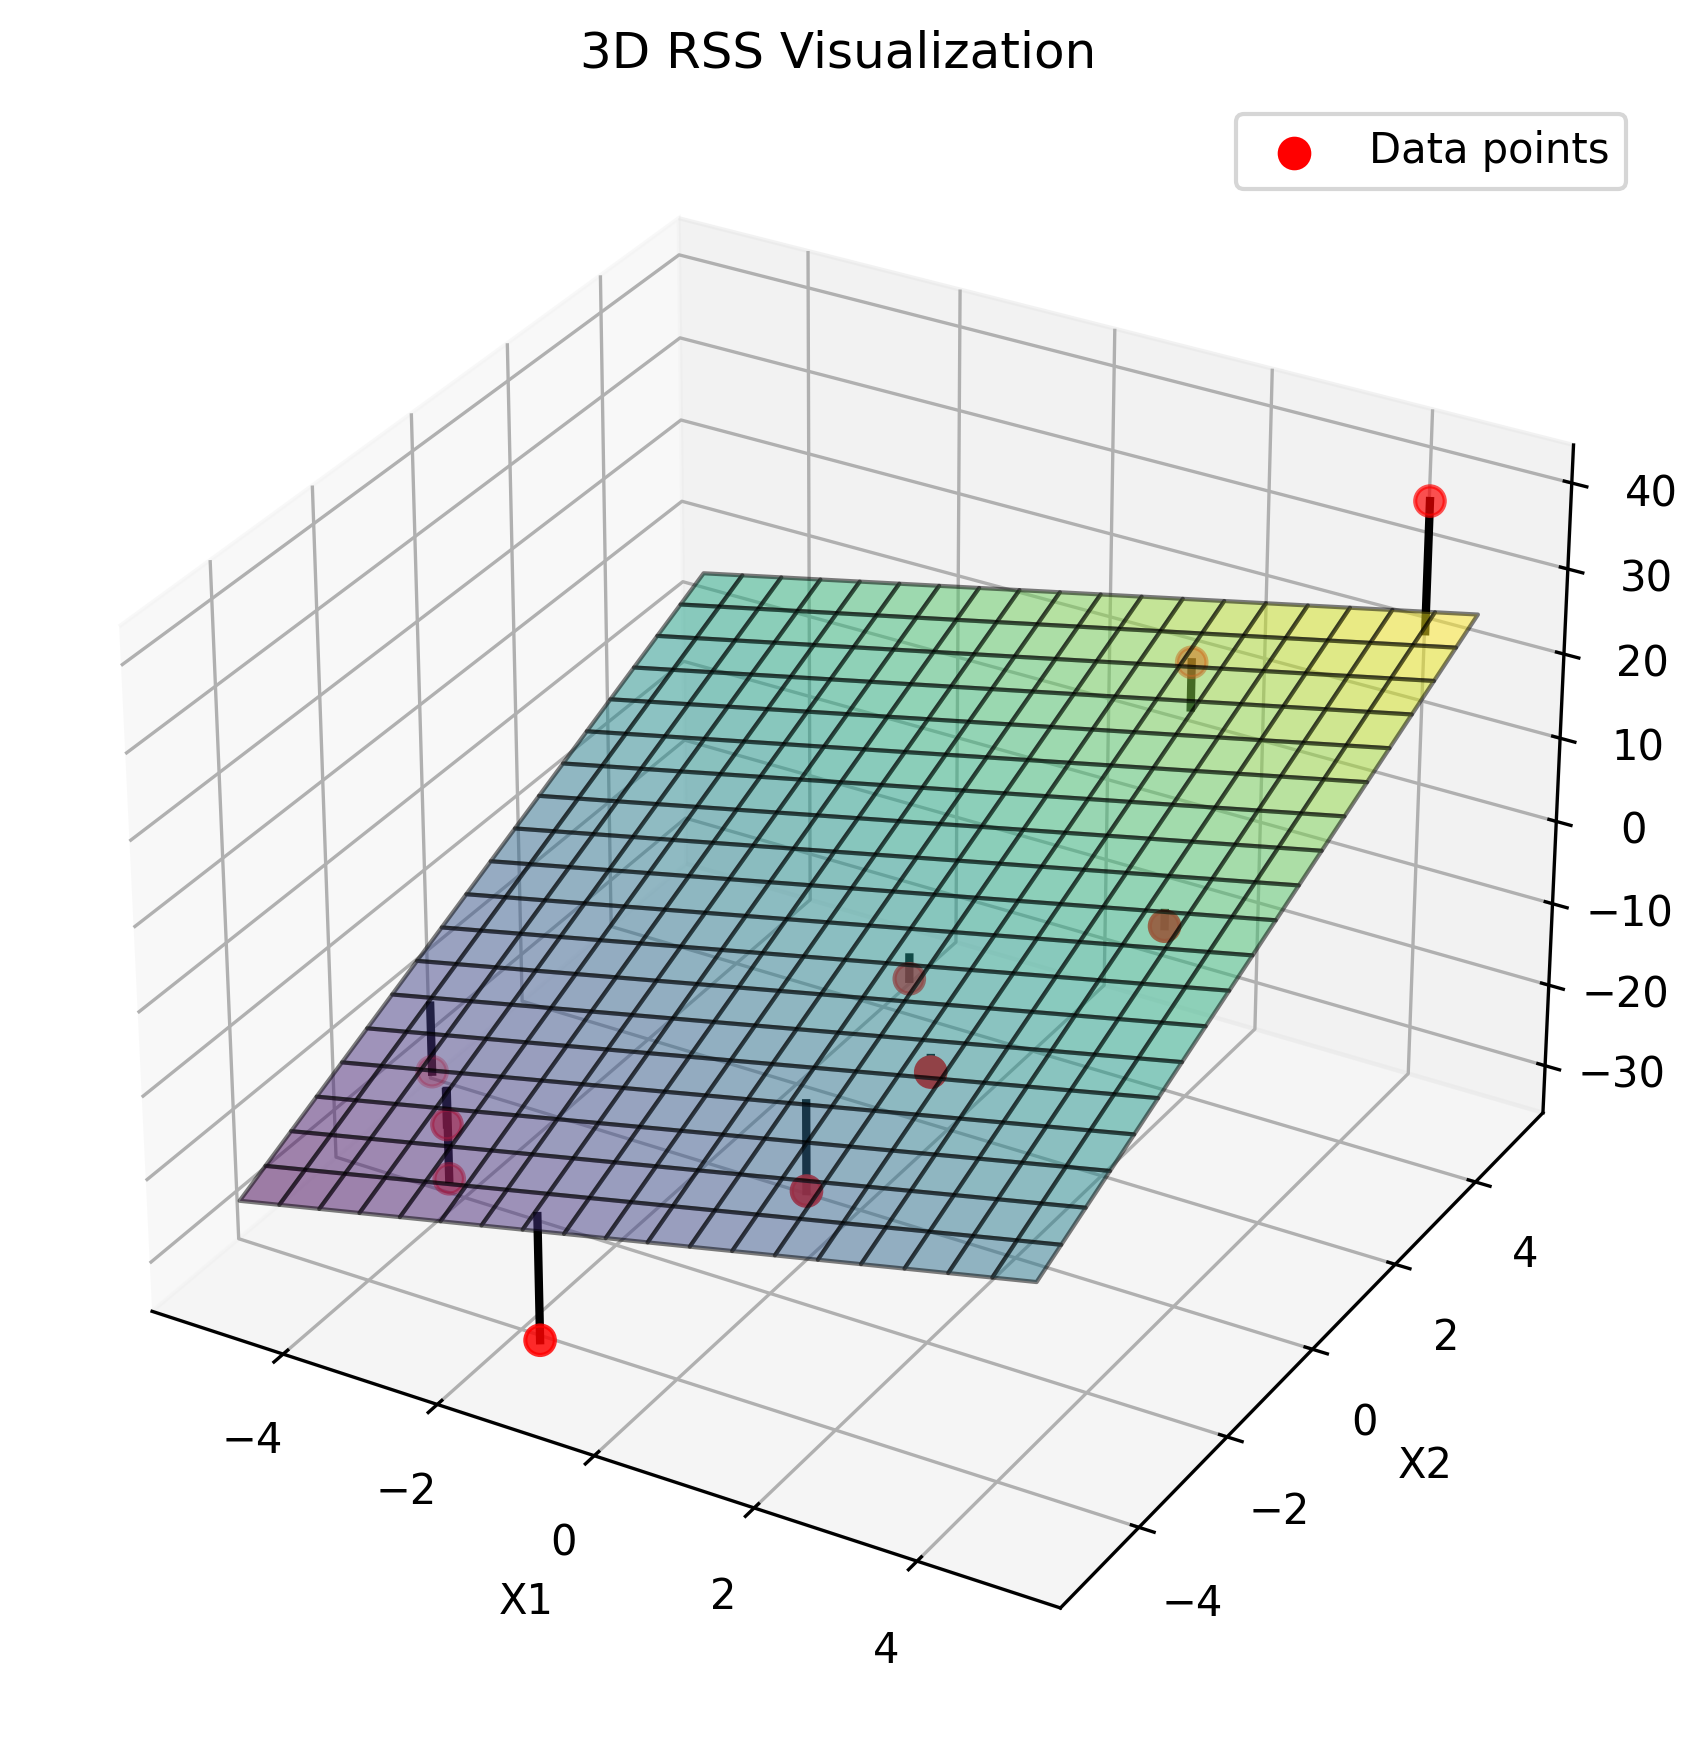
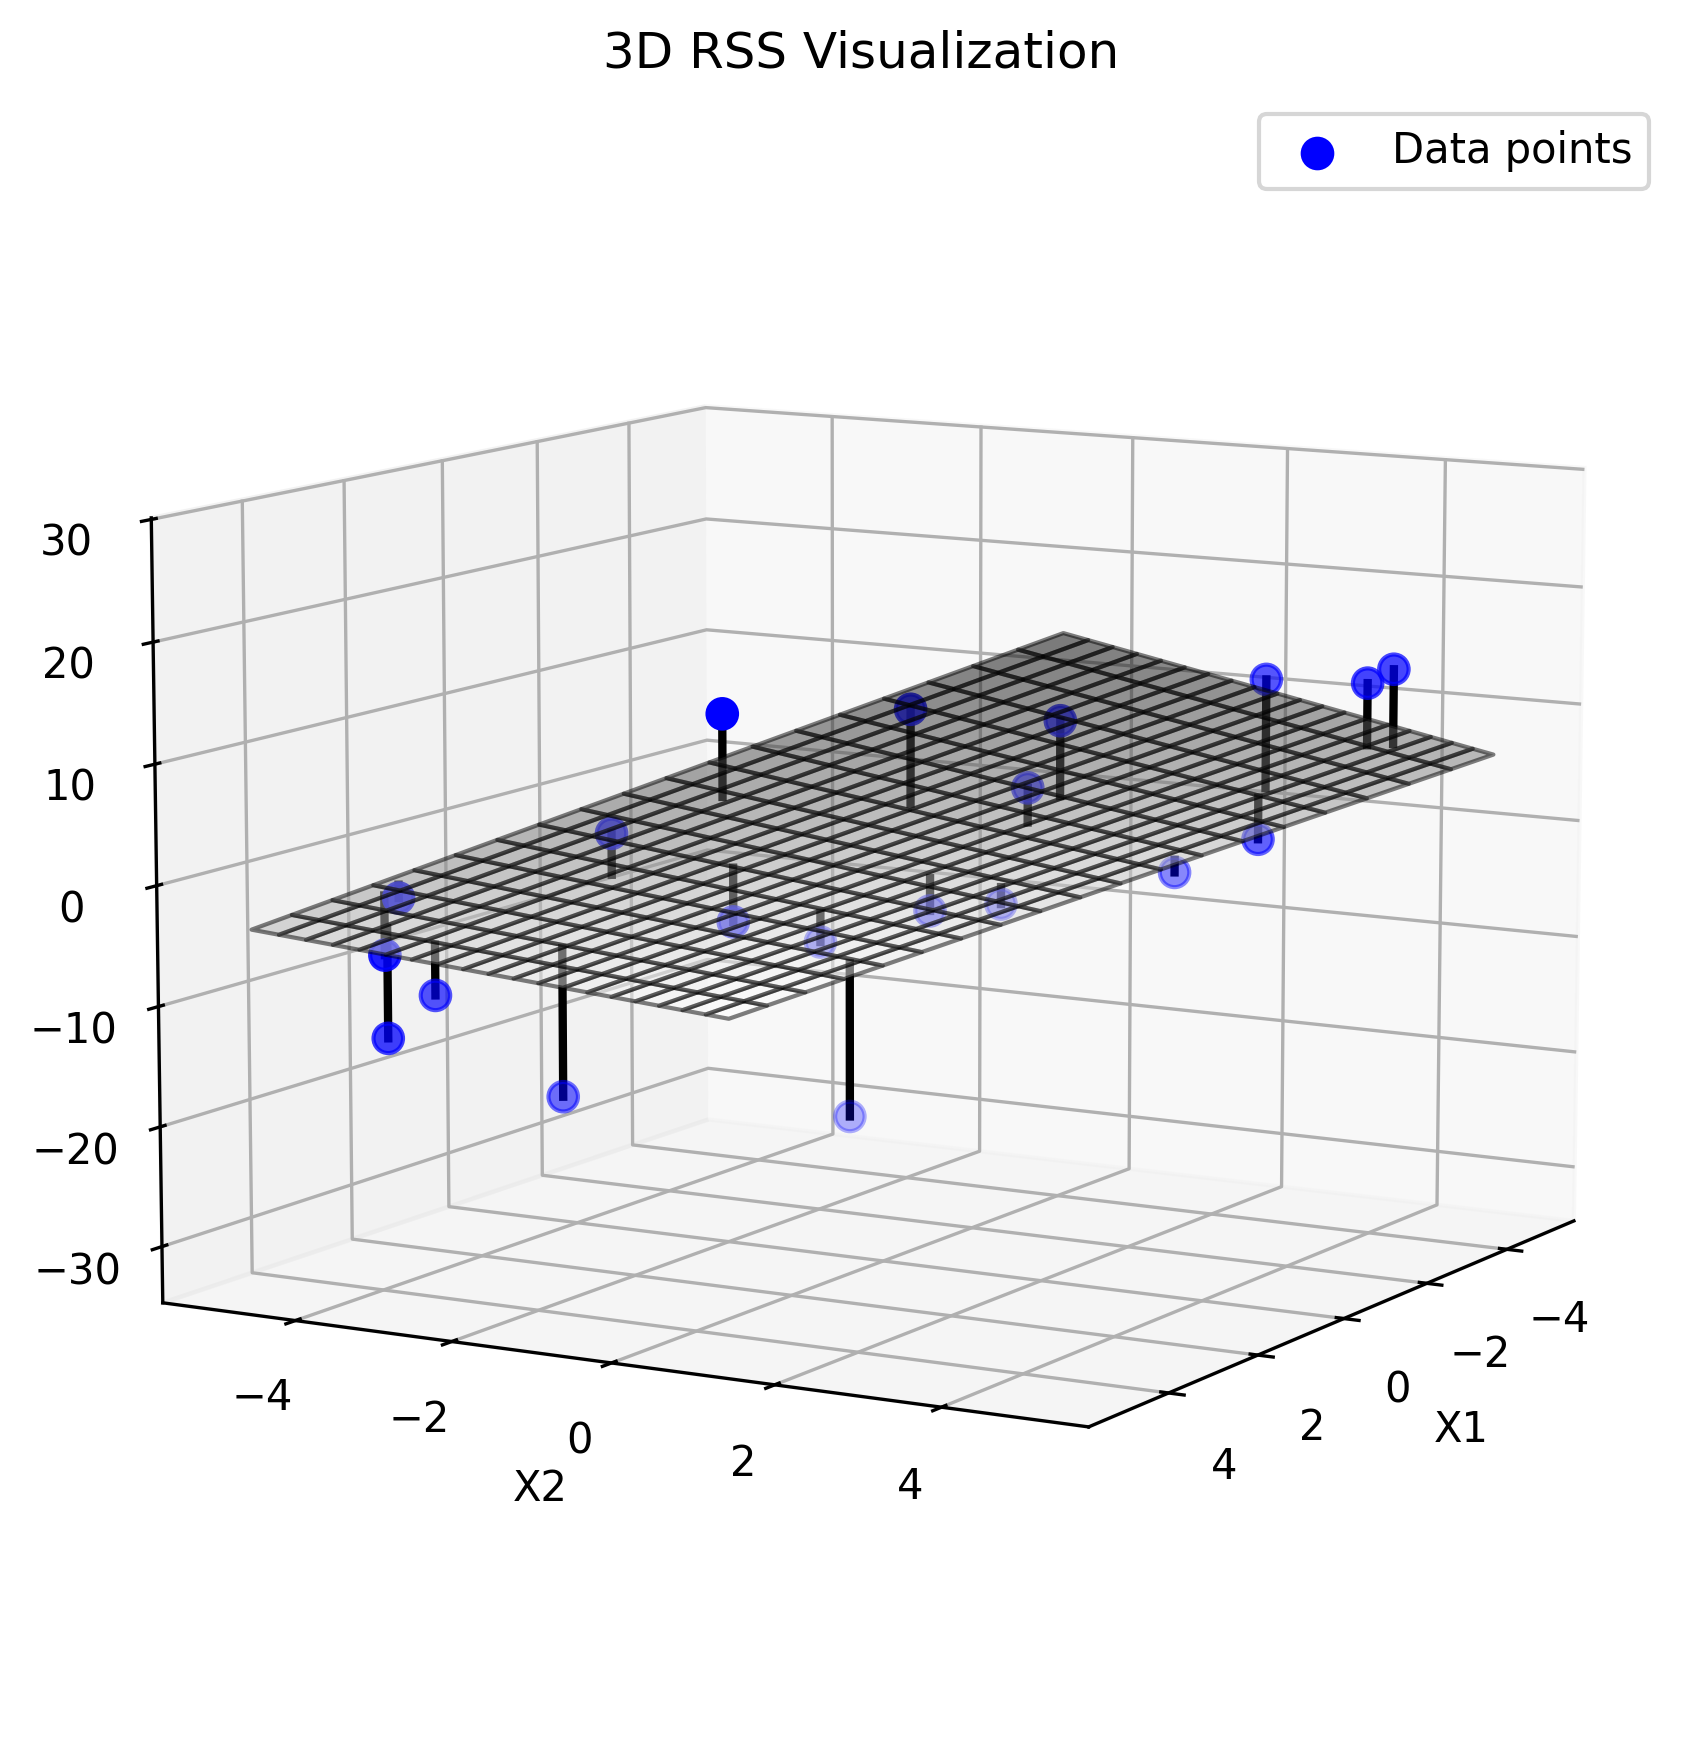
post/regularization:wip

diff --git a/intro_regularization/regularization.py b/intro_regularization/regularization.py
@@ -6,6 +6,8 @@ matplotlib.use('TkAgg')
 # Create a 3D figure
 fig = plt.figure(figsize=(10, 7))
 ax = fig.add_subplot(111, projection='3d')
+# Set viewing angle
+ax.view_init(elev=10, azim=30)
 
 # Generate data for the plane
 x1 = np.linspace(-5, 5, 20)
@@ -14,16 +16,16 @@ x1, x2 = np.meshgrid(x1, x2)
 y = 2 * x1 + 3 * x2 + 1   # Example plane equation: y = 2x1 + 3x2 + 1
 
 # Plot the plane
-ax.plot_surface(x1, x2, y, alpha=0.5, cmap='viridis', edgecolor='k')
+ax.plot_surface(x1, x2, y, alpha=0.5, cmap='Grays', edgecolor='k')
 
 # Generate some sample data points
 np.random.seed(42)
-x1_data = np.random.uniform(-5, 5, 10)
-x2_data = np.random.uniform(-5, 5, 10)
-y_data = 3 * x1_data + 5 * x2_data + 1 + np.random.normal(scale=4, size=10)  # Add noise
+x1_data = np.random.uniform(-5, 5, 20)
+x2_data = np.random.uniform(-5, 5, 20)
+y_data = 3 * x1_data + 5 * x2_data + 3 + np.random.normal(scale=4, size=20)  # Add noise
 
 # Plot the data points
-ax.scatter(x1_data, x2_data, y_data, color='red', s=50, label='Data points')
+ax.scatter(x1_data, x2_data, y_data, color='blue', s=50, label='Data points')
 
 # Draw residual lines (vertical lines from the data point to the plane)
 for i in range(len(x1_data)):
